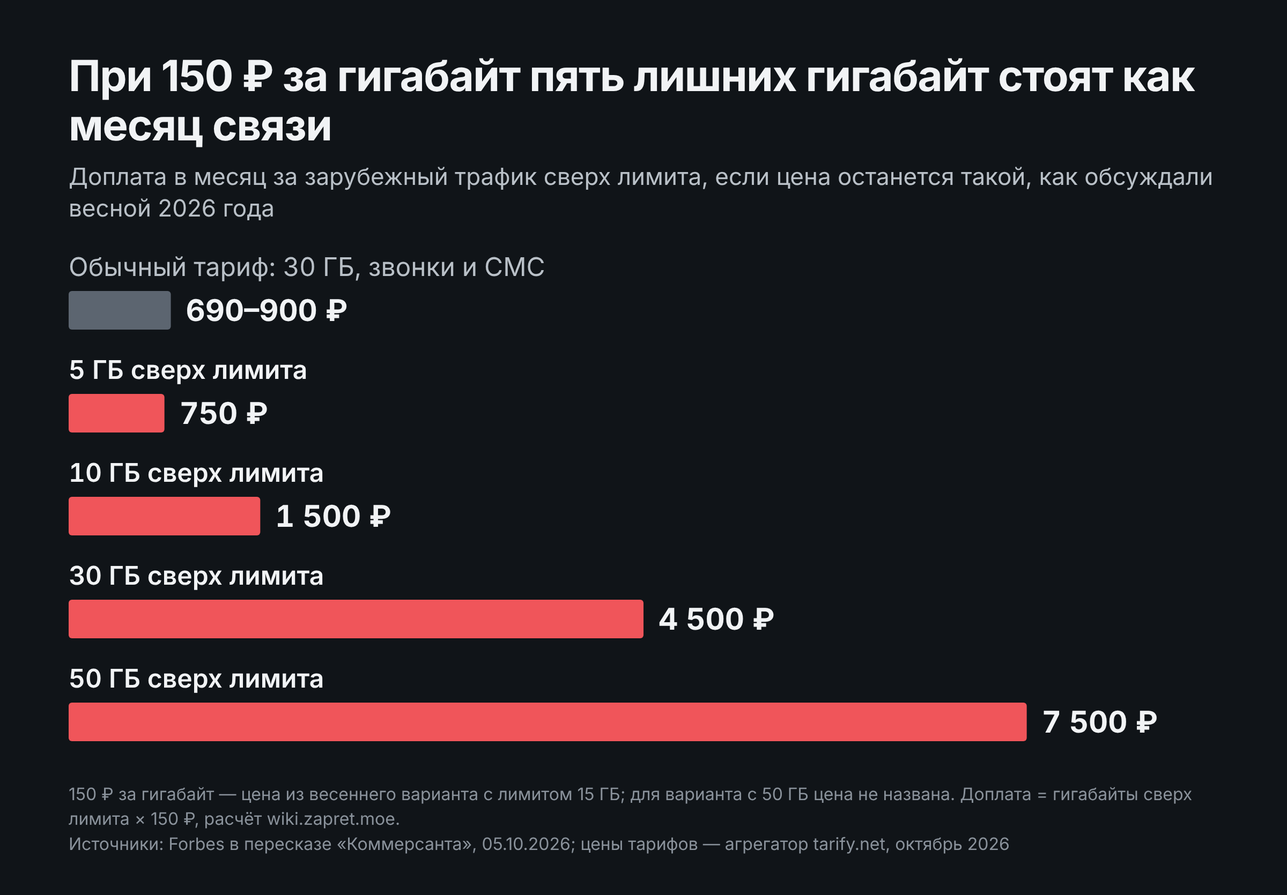
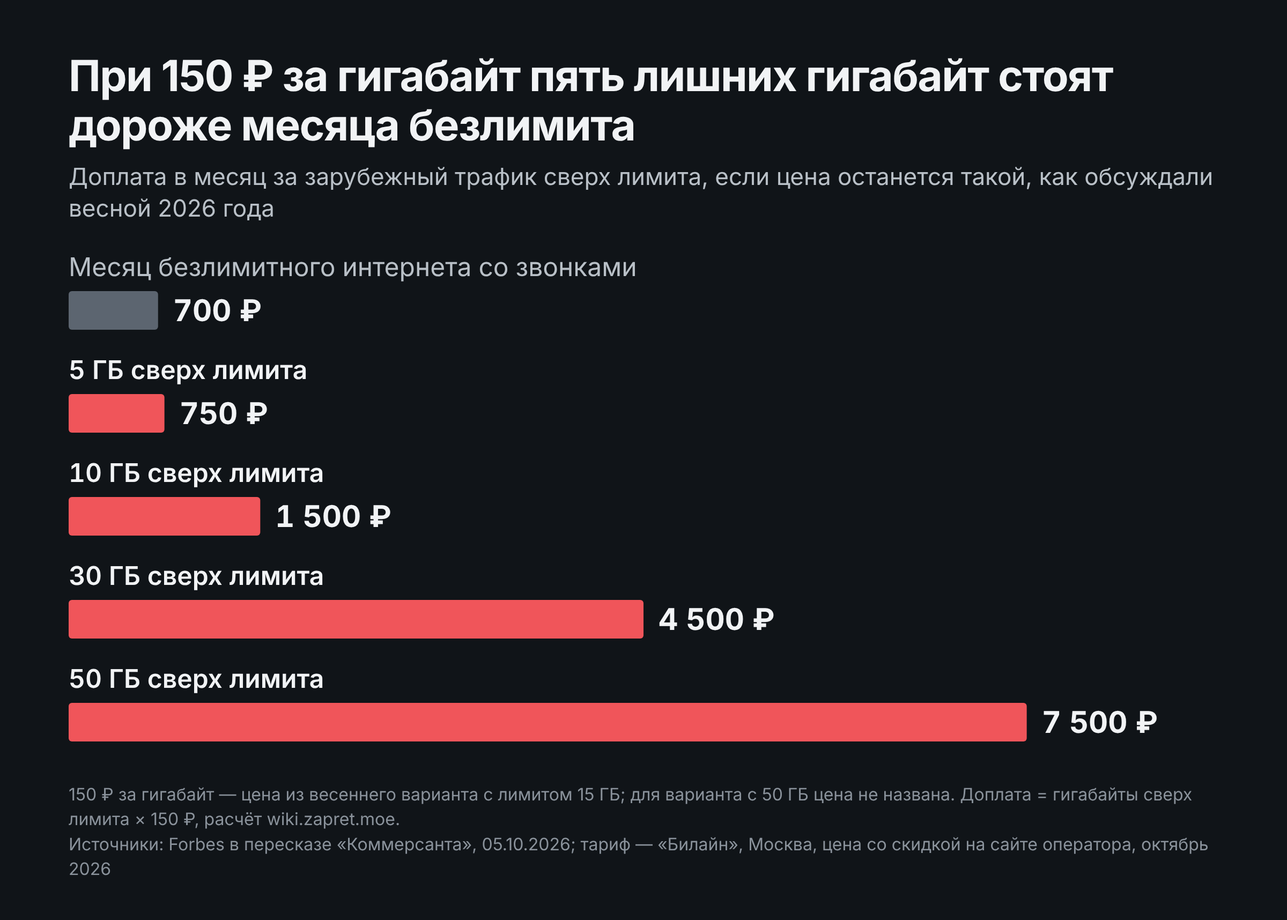
Плата за зарубежный трафик в 5G: сравнение с прошлым, с тарифами и с другими странами
Новый раздел: цена гигабайта в России с 2016 года, действующие тарифы,
место 150 рублей за гигабайт в международном рейтинге, потолок доплаты
в роуминге ЕС, практика других стран и доля доплат в медианной и
минимальной зарплате. Четыре новые диаграммы.

Раздел о стоимости исправлен: сравнение с тарифами переведено с данных
агрегатора на цены с сайта оператора (безлимит 700 рублей, докупка
66 рублей за гигабайт), диаграмма доплат перерисована.

diff --git a/DPI/paid-international-traffic-5g-50gb-october-2026.md b/DPI/paid-international-traffic-5g-50gb-october-2026.md
@@ -42,7 +42,8 @@ link: https://www.kommersant.ru/doc/9005972
 - **Кто против.** Операторы выглядят тормозом, а не заказчиком: весной они просили отсрочку, в октябре у них «нет технического решения».
 - **Можно ли посчитать.** Грубо — да, по IP-адресам. Точно — нет: такой учёт ошибается в обе стороны, а отделить «зарубежные байты именно в 5G» в нынешних сетях можно только приблизительно.
 - **Кого заденет.** Немногих: порог вдвое выше среднего расхода абонента, 5G работает в 16 городах и пока не на iPhone.
-- **Сколько это стоит.** Для 50 ГБ цена не названа. По весенней цене в 150 рублей пять гигабайт сверх лимита стоят как месяц обычного тарифа, а активному пользователю при лимите 15 ГБ пришлось бы доплачивать тысячи рублей в месяц.
+- **Сколько это стоит.** Для 50 ГБ цена не названа. По весенней цене в 150 рублей пять гигабайт сверх лимита стоят дороже месяца безлимитного тарифа, а активному пользователю при лимите 15 ГБ пришлось бы доплачивать тысячи рублей в месяц.
+- **Как в других странах.** Обязательной наценки на зарубежный трафик в домашней сети найти не удалось нигде. В ЕС доплата за гигабайт в настоящем роуминге ограничена 1,10 евро, около 106 рублей.
 - **Как обойдут.** Wi-Fi, отключение 5G в настройках телефона и схема с промежуточным сервером в России. Последняя не снимает проблему, а переносит давление на российских хостеров.
 - **Главный риск (оценка).** Не сама мера в нынешнем виде, а её расширение: снижение порога и распространение с 5G на LTE.
 
@@ -124,7 +125,9 @@ link: https://www.kommersant.ru/doc/9005972
 
 ![[paid-international-traffic-5g-surcharge-cost.png]]
 
-Масштаб цены виден в сравнении с обычным тарифом. По данным агрегатора тарифов на октябрь 2026 года, пакет с 30 ГБ интернета, звонками и СМС у крупных операторов стоит 690–900 рублей в месяц, то есть гигабайт внутри пакета обходится в 23–30 рублей. Гигабайт сверх лимита за 150 рублей в пять-шесть раз дороже, а пять таких гигабайт стоят столько же, сколько весь месяц связи.
+Масштаб цены виден в сравнении с действующими тарифами. На сайте «Билайна» для Москвы в октябре 2026 года тариф с безлимитным интернетом и 700 минутами стоит 700 рублей в месяц (цена со скидкой), а тариф с 10 ГБ — 400 рублей, то есть около 40 рублей за гигабайт вместе со звонками. Когда пакет заканчивается, оператор автоматически добавляет 5 ГБ за 330 рублей — 66 рублей за гигабайт. На этом фоне 150 рублей за гигабайт почти вчетверо дороже гигабайта в пакете и в 2,3 раза дороже докупки, а пять таких гигабайт стоят больше, чем месяц безлимита.
+
+Справедливости ради: 150 рублей — не самая высокая цена гигабайта на рынке. Разовая докупка одного гигабайта у операторов бывает и дороже. Разница в том, что докупку абонент выбирает сам и может взять крупный пакет дешевле, а плата за зарубежный трафик начислялась бы автоматически и поверх уже оплаченного тарифа, включая безлимитный.
 
 Сколько людей это задело бы, зависит от лимита. При 15 ГБ — заметную часть: глава «Т-Мобайл» Владимир Любимов в интервью «Ведомостям» говорил, что лимит превышают около 20% абонентов, а глава Telecom Daily Денис Кусков оценивал эту группу примерно в 37 млн человек (оба — в пересказе СМИ, июнь 2026). При 50 ГБ в 5G — почти никого, как показано выше.
 
@@ -132,7 +135,7 @@ link: https://www.kommersant.ru/doc/9005972
 
 Оценивать меру можно по трём признакам: соответствует ли цена затратам, достигает ли мера заявленной цели и по кому она на самом деле бьёт.
 
-**Цена не связана с затратами.** Если оператор продаёт гигабайт в пакете за 23–30 рублей и остаётся в прибыли, то 150 рублей за такой же гигабайт — не плата за услугу, а заградительная цена. Это не скрывается: заявленная цель меры — снизить использование VPN, а не окупить каналы связи. Проще говоря, это штраф, оформленный как тариф. Отличие от штрафа в том, что его не нужно доказывать и нельзя обжаловать как наказание.
+**Цена не связана с затратами.** Если оператор продаёт гигабайт в пакете примерно за 40 рублей, а сверх пакета за 66, и остаётся в прибыли, то 150 рублей за такой же гигабайт — не плата за услугу, а заградительная цена. Это не скрывается: заявленная цель меры — снизить использование VPN, а не окупить каналы связи. Проще говоря, это штраф, оформленный как тариф. Отличие от штрафа в том, что его не нужно доказывать и нельзя обжаловать как наказание.
 
 **Цели мера в нынешнем виде не достигает.** При пороге 50 ГБ в 5G под неё не попадает подавляющее большинство пользователей VPN: им достаточно не превышать порог, отключить 5G или пользоваться Wi-Fi. Вариант с 15 ГБ был бы действенным, но именно поэтому он вызвал сопротивление операторов и был отложен.
 
@@ -140,6 +143,61 @@ link: https://www.kommersant.ru/doc/9005972
 
 > [!summary] Итог по деньгам
 > В варианте «50 ГБ в 5G» мера почти ничего не стоит большинству абонентов и почти ничего не меняет в использовании VPN. В варианте «15 ГБ по 150 рублей» она обошлась бы активным пользователям в тысячи рублей в месяц — в несколько раз больше самого тарифа. Разумной середины между «не работает» и «неподъёмно» в обсуждавшихся параметрах нет, и это, вероятно, одна из причин, по которым решение переносят с марта. Последнее — оценка, а не утверждение источников.
+
+## Как было раньше, как сейчас и как в других странах
+
+Чтобы оценить 150 рублей за гигабайт, полезно поставить эту цифру в три ряда: рядом с прошлыми российскими ценами, с нынешними тарифами и с тем, как устроены доплаты за границей.
+
+### Как было раньше
+
+Россия много лет была одной из стран с самым дешёвым мобильным интернетом. По подсчётам аналитического агентства Content Review, в феврале 2016 года гигабайт стоил в среднем 117 рублей, и это было второе место в мире по дешевизне. Дальше цена падала: 55,5 рубля в декабре 2018 года, 37,3 рубля в 2019-м, 24,6 рубля в 2020-м — снова второе место при среднемировых 189,8 рубля.
+
+![[paid-international-traffic-5g-price-history.png]]
+
+Плата в 150 рублей за зарубежный гигабайт вшестеро выше средней цены 2020 года и выше уровня 2016 года, причём без поправки на инфляцию. Сравнение не строгое: 150 рублей — цена сверх лимита, а ряд Content Review — средняя цена внутри пакета, и методика подсчёта в разные годы отличалась. С учётом роста зарплат разрыв с 2016 годом меньше, чем в рублях. Сопоставимого ряда в рублях за 2021–2025 годы найти не удалось.
+
+Менялось и отношение операторов к объёму. Безлимитный мобильный интернет появился у «большой четвёрки» в 2016 году, в 2017-м от него начали отказываться, в 2018-м вернули, в ноябре 2021 года закрыли для новых абонентов, а в марте 2022 года перестали предлагать совсем. Осенью 2025 года безлимит вернулся. Делить трафик на «свой» и остальной операторы тоже умели давно, но в обратную сторону: с марта 2016 года МТС не списывала из пакета трафик соцсетей, и такие бесплатные сервисы есть в тарифах до сих пор. Отдельной повышенной цены на зарубежные ресурсы внутри страны в истории российской мобильной связи найти не удалось.
+
+### Как сейчас
+
+Действующие цены уже приведены выше: безлимит за 700 рублей в месяц, около 40 рублей за гигабайт в небольшом пакете, 66 рублей за гигабайт при автоматической докупке. Ближайший существующий аналог дорогого «зарубежного» гигабайта — международный роуминг: по прайс-листу «Билайна», гигабайт в популярных странах стоит около 470 рублей за день. Плата за зарубежный трафик втрое дешевле роуминга, но разница принципиальная: в роуминге абонент находится в чужой сети, и его оператор платит за это другому оператору. Здесь абонент не покидает ни страну, ни свою сеть.
+
+### Как в других странах
+
+Свежего международного рейтинга цен нет: последнее издание исследования Worldwide Mobile Data Pricing британского сервиса cable.co.uk вышло в 2023 году. По нему Россия занимала 15-е место из 237 стран и территорий со средней ценой 0,25 доллара за гигабайт — около 21 рубля по курсу 85,5 рубля за доллар.
+
+![[paid-international-traffic-5g-price-by-country.png]]
+
+Гигабайт за 150 рублей, то есть около 1,75 доллара, оказался бы в этой таблице между Ираном (1,50 доллара) и Германией (2,14 доллара), примерно на 146-м месте. Это в семь раз дороже среднего российского уровня из того же рейтинга. Оговорка обязательна: рейтинг считает простое среднее по всем тарифам страны, включая маленькие дорогие пакеты, и в богатых странах гигабайт стоит ещё дороже — в США и Канаде 5–6 долларов. Цена сама по себе не запредельная; необычно то, что её назначают одному направлению трафика.
+
+Показательнее не цены, а то, в какую сторону работает государство. В Евросоюзе регулятор ограничивает доплату сверху: когда абонент уехал в другую страну ЕС и исчерпал положенный объём, оператор вправе брать за гигабайт не больше оптового потолка. В 2026 году это 1,10 евро без налога, около 106 рублей, а с 2027 года — 1 евро.
+
+![[paid-international-traffic-5g-eu-roaming-cap.png]]
+
+Проще говоря: в ЕС государство запрещает брать с человека больше 106 рублей за гигабайт, когда он действительно за границей. В России обсуждали обязанность брать 150 рублей, когда он сидит дома.
+
+Та же логика защиты абонента действует и в других странах. В Канаде правила регулятора с 2013 года останавливают доплаты за данные на 50 канадских долларах в месяц, пока абонент прямо не согласится платить больше. В США и Австралии операторов обязали предупреждать о приближении к лимиту. Сам рынок за 2010-е годы ушёл от платы за каждый лишний гигабайт к снижению скорости и безлимитам.
+
+Обратные примеры — когда государство само вводит сбор — тоже есть, но это налоги на всю связь или на отдельные приложения, а не на направление трафика. Попытки обложить именно мессенджеры заканчивались плохо: в Бенине сбор 2018 года отменили через два месяца после протестов, в Ливане план брать плату за звонки в WhatsApp в октябре 2019 года отозвали в день объявления, и он стал поводом для массовых протестов. Об Уганде сказано выше.
+
+Обязательной повышенной цены именно за трафик на зарубежные адреса в домашней сети найти не удалось ни в одной стране. Иран, самый близкий пример, устроен наоборот: там дешевле внутренний трафик. Это результат поиска, а не доказательство, что таких норм нет нигде.
+
+### Посильно ли это
+
+Комиссия ООН по широкополосной связи считает интернет доступным, если базовый пакет стоит не больше 2% месячного дохода на человека. Сейчас Россия укладывается с большим запасом: по данным Международного союза электросвязи за 2025 год, недорогой тариф с 5 ГБ стоит 0,62% дохода на душу населения. При цене 150 рублей в 2% медианной зарплаты — а она, по последним данным Росстата за апрель 2025 года, составляла 73 871 рубль — помещается меньше 10 гигабайт зарубежного трафика сверх лимита.
+
+| Доплата в месяц (лимит 15 ГБ, 150 ₽ за гигабайт) | От медианной зарплаты 73 871 ₽ | От минимальной зарплаты 27 093 ₽ |
+|---|---|---|
+| 1 350 ₽ — 24 ГБ зарубежного трафика | 1,8% | 5% |
+| 5 250 ₽ — 50 ГБ | 7,1% | 19% |
+| 9 750 ₽ — 80 ГБ | 13,2% | 36% |
+
+![[paid-international-traffic-5g-share-of-min-wage.png]]
+
+Доли посчитаны от зарплаты до вычета налога; медианная зарплата с апреля 2025 года выросла, поэтому для 2026 года проценты немного ниже. Порядок величин от этого не меняется: для человека с минимальной зарплатой доплата за привычку смотреть зарубежное видео с телефона — это уже не расходы на связь, а пятая часть или треть всего заработка.
+
+> [!important] Что показывает сравнение
+> Цена в 150 рублей за гигабайт сама по себе встречается в мире. Необычны три вещи: она назначается сверх уже оплаченного тарифа, она зависит от того, где стоит сервер, и её предлагает ввести государство, тогда как в других странах регуляторы ограничивают такие доплаты сверху. В нынешнем варианте с порогом 50 ГБ и без названной цены всё это остаётся возможностью, а не действующим правилом.
 
 ## Можно ли это посчитать технически
 
@@ -246,7 +304,13 @@ link: https://www.kommersant.ru/doc/9005972
 - «Коммерсантъ», 21 мая 2026, об отсрочке до выборов: https://www.kommersant.ru/doc/8674924
 - «Рамблер» со ссылкой на «Ведомости», 3 июня 2026, оценки Владимира Любимова и Дениса Кускова: https://news.rambler.ru/tech/56547167-vvedenie-platy-za-zarubezhnyy-trafik-zatronet-37-mln-rossiyan-eksperty/
 - «Рамблер», оценка Эльдара Муртазина о доплате 5–10 тысяч рублей в месяц: https://finance.rambler.ru/money/56242243-platit-5-ndash-10-tys-rubley-v-mesyats-eksperty-otsenili-posledstviya-vvedeniya-platy-za-vpn-trafik/
-- Агрегатор тарифов tarify.net, цены пакетов на октябрь 2026: https://tarify.net/mts/
+- «Билайн», тарифы для Москвы и услуга автопродления, октябрь 2026: https://moskva.beeline.ru/customers/products/mobile/tariffs/ и https://moskva.beeline.ru/customers/products/mobile/services/details/avtoprodlenie-skorosti-5gb/
+- ComNews, 1 марта 2016 и 15 марта 2021, исследования Content Review о цене гигабайта: https://www.comnews.ru/content/99930/2016-03-01/tarify-na-mobilnyy-internet-v-rossii-odni-iz-samyh-nizkih-v-mire и https://www.comnews.ru/content/213526/2021-03-15/2021-w11/deshevaya-svyaz-podorozhala
+- «Коммерсантъ», декабрь 2018, цена гигабайта по Content Review: https://www.kommersant.ru/doc/3843035
+- Worldwide Mobile Data Pricing 2023, таблица цен по странам: https://bestbroadbanddeals.co.uk/mobiles/worldwide-data-pricing/
+- Еврокомиссия о правилах роуминга: https://digital-strategy.ec.europa.eu/en/policies/roaming и Telecompaper о потолках по годам: https://www.telecompaper.com/news/eu-agrees-to-extend-roam-like-home-until-2032-lower-wholesale-rates--1407169
+- Международный союз электросвязи, корзины цен на связь 2025: https://www.itu.int/en/ITU-D/Statistics/Documents/ICT_Prices/ITU_ICTPriceBaskets_2008-2025.xlsx
+- «Эксперт» о медианной зарплате по данным Росстата: https://expert.ru/news/v-rossii-mediannaya-zarplata-vyrosla-na-40-za-dva-goda/
 - «Говорит Москва», 5 октября 2026, комментарий Германа Клименко: http://govoritmoskva.ru/news/508035/
 - «Ридус», 5 октября 2026, комментарий Эльдара Муртазина: https://www.ridus.ru/analitik-murtazin-rasskazal-kak-vyrastet-v-cene-internet-s-platnym-5g-trafikom-958343.html
 - «Медиазона», 1 октября 2026, о нормах для хостеров в проекте «Антифрод 3.0»: https://zona.media/news/2026/10/01/vpn
